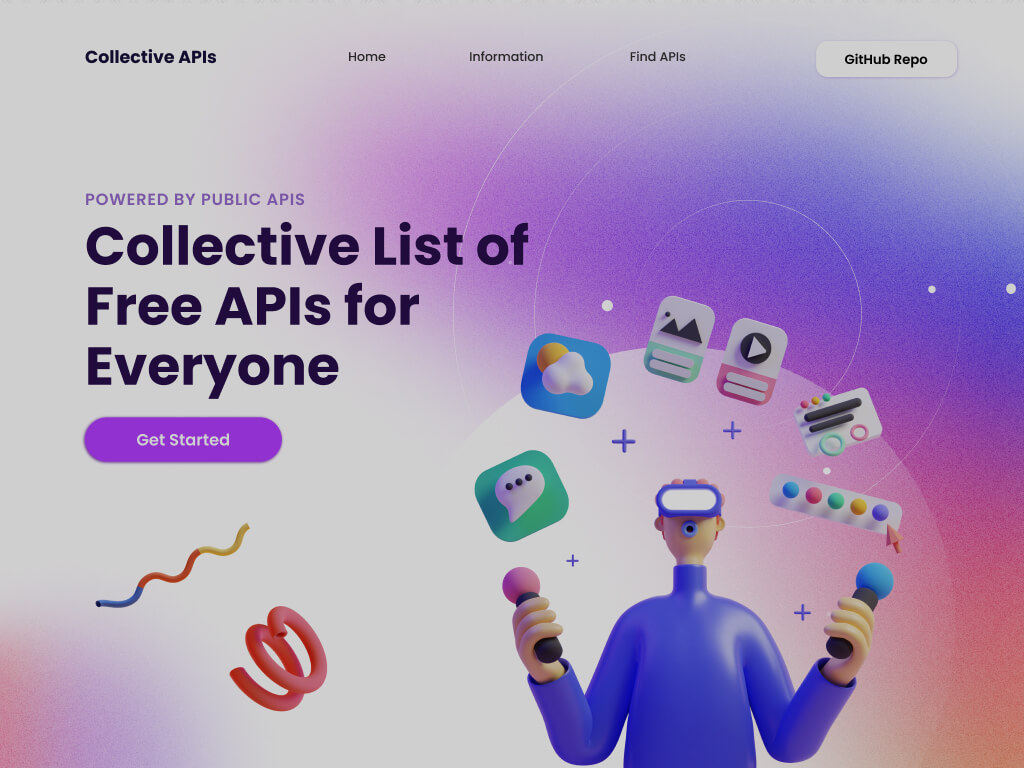
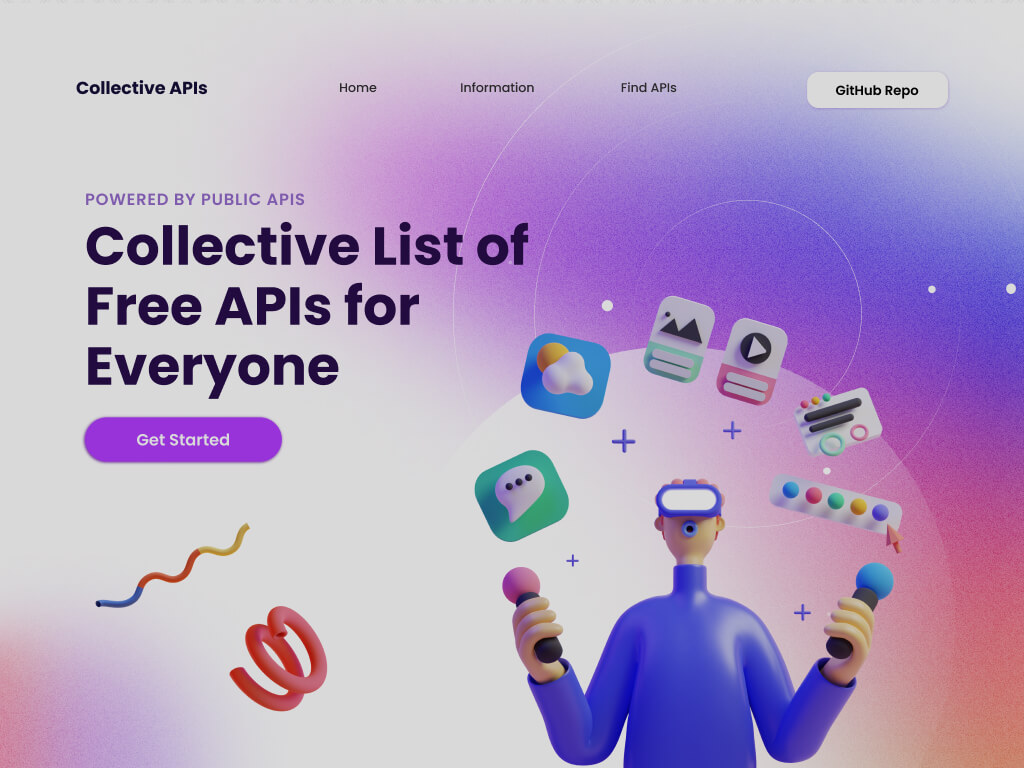
chore: import img design project showcase

diff --git a/src/components/sections/design-showcase.tsx b/src/components/sections/design-showcase.tsx
@@ -1,51 +1,62 @@
 import { cn } from "@/lib/utils";
 import Marquee from "../magicui/marquee";
 import Image from "next/image";
-import { type StaticImageData } from "next/image";
-
-import chatti from "/public/img/projects/design/chatti.jpg";
-import gdsc from "/public/img/projects/design/gdsc.jpg";
-import outlaw from "/public/img/projects/design/outlaw.jpg";
-import culture from "/public/img/projects/design/culture.jpg";
-import port3d from "/public/img/projects/design/3d-port.jpg";
-import collectApis from "/public/img/projects/design/collect-apis.jpg";
-import proemial from "/public/img/projects/design/proemial.jpg";
 
 const projects = [
   {
-    img: chatti,
+    img: "chatti",
     url: "",
-    square: false,
   },
   {
-    img: culture,
+    img: "port-1",
+    url: "",
+  },
+  {
+    img: "culture",
     url: "",
     square: true,
   },
   {
-    img: outlaw,
+    img: "devfest",
     url: "",
-    square: false,
   },
   {
-    img: gdsc,
+    img: "typography",
+    url: "",
+  },
+  {
+    img: "oscar",
+    url: "",
+  },
+  {
+    img: "outlaw",
+    url: "",
+  },
+  {
+    img: "gdsc",
     url: "",
     square: true,
   },
   {
-    img: port3d,
+    img: "3d-port",
     url: "",
-    square: false,
   },
   {
-    img: proemial,
+    img: "marbre",
+    url: "",
+  },
+  {
+    img: "proemial",
     url: "",
     square: true,
   },
   {
-    img: collectApis,
+    img: "masskara",
     url: "",
-    square: false,
+  },
+  {
+    img: "collect-apis",
+    url: "",
   },
 ];
 
@@ -60,7 +71,7 @@ export default function DesignShowcase() {
       </h2>
       <div className="relative flex w-full flex-col items-center justify-center overflow-hidden rounded-lg bg-background md:shadow-xl">
         <Marquee
-          pauseOnHover
+          // pauseOnHover
           className="[--duration:20s] [mask-image:linear-gradient(to_top,transparent_10%,#000_100%)]"
         >
           {firstRow.map((project) => (
@@ -69,8 +80,8 @@ export default function DesignShowcase() {
         </Marquee>
         <Marquee
           reverse
-          pauseOnHover
-          className="[--duration:20s] [mask-image:linear-gradient(to_top,transparent_10%,#000_100%)]"
+          // pauseOnHover
+          className="[--duration:30s] [mask-image:linear-gradient(to_top,transparent_10%,#000_100%)]"
         >
           {secondRow.map((project) => (
             <ReviewCard key={project.url} {...project} />
@@ -86,11 +97,11 @@ export default function DesignShowcase() {
 const ReviewCard = ({
   img,
   url,
-  square,
+  square = false,
 }: {
-  img: StaticImageData;
+  img: string;
   url: string;
-  square: boolean;
+  square?: boolean;
 }) => {
   return (
     <div
@@ -98,15 +109,16 @@ const ReviewCard = ({
         square
           ? "size-[200px] lg:size-[280px]"
           : "h-[200px] w-[282px] lg:h-[280px] lg:w-[394px]",
-        "relative cursor-pointer overflow-hidden rounded-xl border bg-neutral-950 p-2 lg:p-4",
+        "pointer relative overflow-hidden rounded-xl border bg-neutral-950 p-2 lg:p-4",
       )}
     >
       <Image
         alt="Culture"
-        src={img}
-        className="h-full w-full rounded-lg object-cover"
+        src={`/img/projects/design/${img}.jpg`}
+        className="h-full w-full rounded-lg object-cover opacity-85"
+        width={square ? 200 : 282}
+        height={280}
       />
-      {/* <div className="size-full rounded-lg [box-shadow:0_0_40px_-20px_#ffffff1f_inset]" /> */}
     </div>
   );
 };
